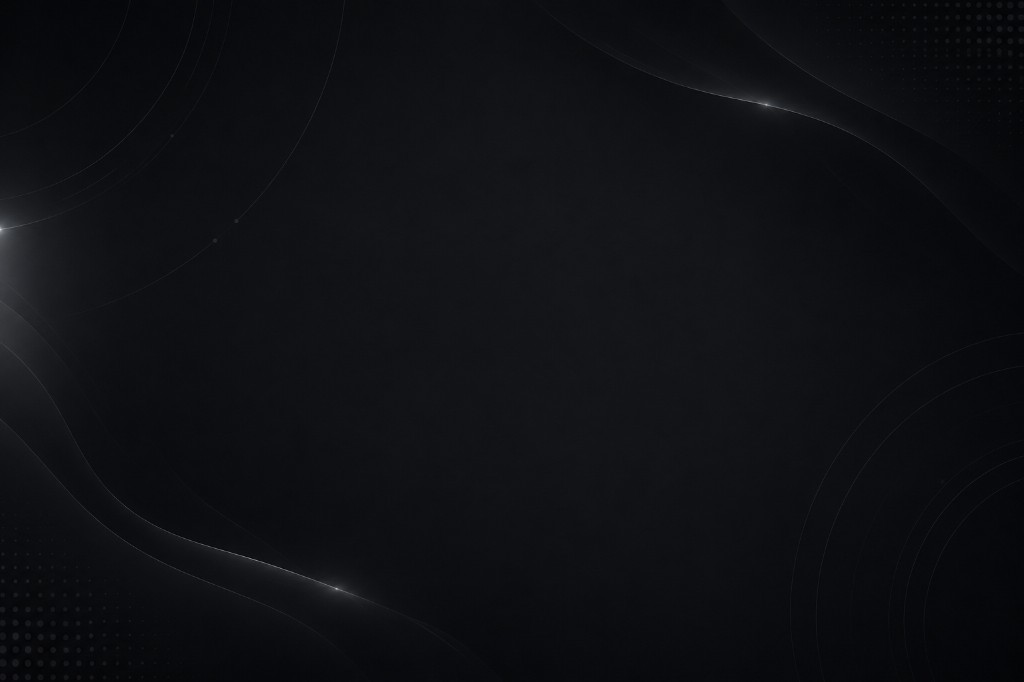
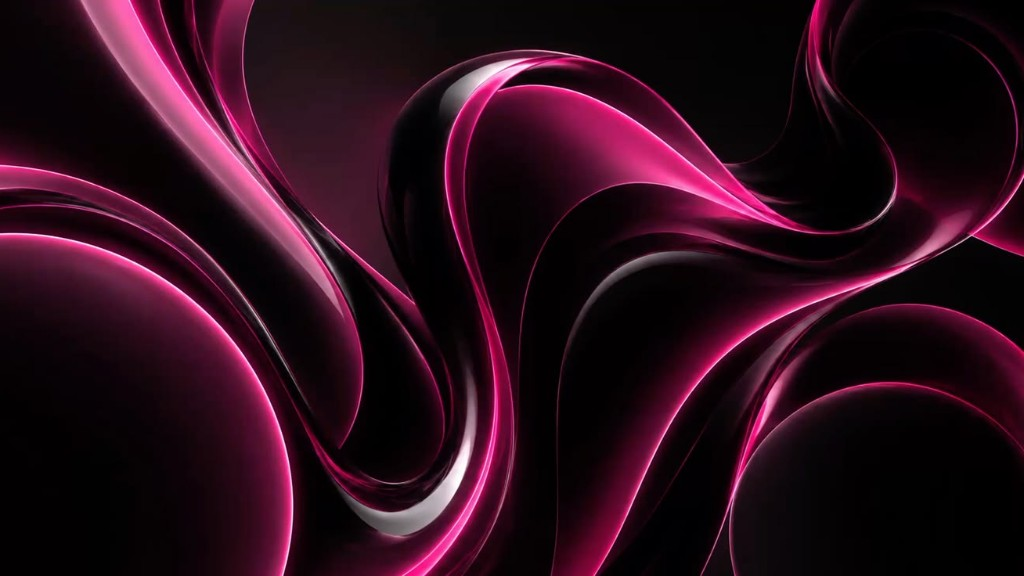
Refresh global app background and tighten interview room layout.
Replace the project background art, clear covering page fills, and place question/recorder panels in a 5:2 row without footer replay controls.

diff --git a/src/features/practice/components/B2cInterviewControls.tsx b/src/features/practice/components/B2cInterviewControls.tsx
@@ -1,4 +1,4 @@
-import { Mic, MicOff, RotateCcw, Video, VideoOff } from 'lucide-react';
+import { Mic, MicOff, Video, VideoOff } from 'lucide-react';
 import { useLanguage } from '@/shared/languages';
 import { cn } from '@/lib/utils';
 
@@ -7,11 +7,6 @@ interface B2cInterviewControlsProps {
   cameraEnabled: boolean;
   onToggleMic: () => void;
   onToggleCamera: () => void;
-  onOpenRecorder: () => void;
-  openRecorderDisabled?: boolean;
-  onReplay: () => void;
-  replayDisabled: boolean;
-  replaying: boolean;
   onFinish: () => void;
   finishLabel: string;
   finishPrimary?: boolean;
@@ -23,11 +18,6 @@ export function B2cInterviewControls({
   cameraEnabled,
   onToggleMic,
   onToggleCamera,
-  onOpenRecorder,
-  openRecorderDisabled,
-  onReplay,
-  replayDisabled,
-  replaying,
   onFinish,
   finishLabel,
   finishPrimary,
@@ -37,7 +27,7 @@ export function B2cInterviewControls({
 
   return (
     <div className="fixed inset-x-0 bottom-0 z-50 border-t border-satin bg-surface-raised/95 backdrop-blur-md">
-      <div className="mx-auto grid w-full max-w-[1400px] grid-cols-1 gap-3 px-4 py-3 sm:grid-cols-[auto_1fr_auto] sm:items-center sm:px-6">
+      <div className="mx-auto flex w-full max-w-[1400px] items-center justify-between gap-3 px-4 py-3 sm:px-6">
         <div className="flex items-center gap-3">
           <button
             type="button"
@@ -61,40 +51,17 @@ export function B2cInterviewControls({
           </button>
         </div>
 
-        <div className="flex flex-wrap items-center justify-center gap-2">
-          <button
-            type="button"
-            className="btn-secondary inline-flex items-center gap-2 rounded-full px-4 py-2.5 text-sm"
-            disabled={replayDisabled || disabled}
-            onClick={onReplay}
-          >
-            <RotateCcw className="size-4" aria-hidden />
-            {replaying ? t('practice.speech.replaying') : t('practice.speech.replay')}
-          </button>
-          <button
-            type="button"
-            className="btn-primary inline-flex items-center gap-2 rounded-full px-4 py-2.5 text-sm"
-            disabled={openRecorderDisabled || disabled}
-            onClick={onOpenRecorder}
-          >
-            <Mic className="size-4" aria-hidden />
-            {t('practice.audioRecorder.open')}
-          </button>
-        </div>
-
-        <div className="flex flex-wrap items-center justify-end gap-2">
-          <button
-            type="button"
-            className={cn(
-              'inline-flex items-center gap-2 rounded-full border border-red-500/40 px-4 py-2.5 text-sm font-medium text-red-300 hover:bg-red-500/10',
-              finishPrimary && 'btn-primary border-transparent text-black',
-            )}
-            disabled={disabled}
-            onClick={onFinish}
-          >
-            {finishLabel}
-          </button>
-        </div>
+        <button
+          type="button"
+          className={cn(
+            'inline-flex items-center gap-2 rounded-full border border-red-500/40 px-4 py-2.5 text-sm font-medium text-red-300 hover:bg-red-500/10',
+            finishPrimary && 'btn-primary border-transparent text-black',
+          )}
+          disabled={disabled}
+          onClick={onFinish}
+        >
+          {finishLabel}
+        </button>
       </div>
     </div>
   );

diff --git a/src/features/practice/components/audio-recorder/AnswerRecorderCard.tsx b/src/features/practice/components/audio-recorder/AnswerRecorderCard.tsx
@@ -36,44 +36,42 @@ export function AnswerRecorderCard({
   const alreadySubmitted = status === 'submitted';
 
   return (
-    <section className="frame-satin rounded-2xl border border-satin bg-surface-raised p-5 sm:p-6">
-      <div className="flex flex-col gap-4 sm:flex-row sm:items-center sm:justify-between">
-        <div className="flex min-w-0 items-start gap-4">
-          <div className="frame-satin-soft flex size-12 shrink-0 items-center justify-center rounded-xl bg-surface-overlay text-foreground">
-            <Mic className="size-5" aria-hidden />
-          </div>
-          <div className="min-w-0 space-y-2">
-            <div className="flex flex-wrap items-center gap-2">
-              <h3 className="text-base font-semibold text-foreground">
-                {t('practice.audioRecorder.cardTitle')}
-              </h3>
-              <span
-                className={cn(
-                  'inline-flex rounded-full border px-2.5 py-0.5 text-xs font-medium',
-                  statusClass[status],
-                )}
-              >
-                {t(statusKey[status])}
-              </span>
-            </div>
-            <p className="text-sm text-muted-foreground">
-              {alreadySubmitted
-                ? t('practice.audioRecorder.cardSubmittedHint')
-                : t('practice.audioRecorder.cardDescription')}
-            </p>
-          </div>
+    <section className="frame-satin flex h-full min-h-[12rem] flex-col justify-between gap-5 rounded-2xl border border-satin bg-surface-raised p-5 sm:p-6">
+      <div className="flex min-w-0 flex-col gap-4">
+        <div className="frame-satin-soft flex size-12 shrink-0 items-center justify-center rounded-xl bg-surface-overlay text-foreground">
+          <Mic className="size-5" aria-hidden />
         </div>
-        <button
-          type="button"
-          className="btn-primary shrink-0 self-start sm:self-center"
-          disabled={disabled || status === 'submitting'}
-          onClick={onOpenRecorder}
-        >
-          {alreadySubmitted
-            ? t('practice.audioRecorder.openAgain')
-            : t('practice.audioRecorder.open')}
-        </button>
+        <div className="min-w-0 space-y-2">
+          <div className="flex flex-wrap items-center gap-2">
+            <h3 className="text-base font-semibold text-foreground">
+              {t('practice.audioRecorder.cardTitle')}
+            </h3>
+            <span
+              className={cn(
+                'inline-flex rounded-full border px-2.5 py-0.5 text-xs font-medium',
+                statusClass[status],
+              )}
+            >
+              {t(statusKey[status])}
+            </span>
+          </div>
+          <p className="text-sm text-muted-foreground">
+            {alreadySubmitted
+              ? t('practice.audioRecorder.cardSubmittedHint')
+              : t('practice.audioRecorder.cardDescription')}
+          </p>
+        </div>
       </div>
+      <button
+        type="button"
+        className="btn-primary w-full shrink-0"
+        disabled={disabled || status === 'submitting'}
+        onClick={onOpenRecorder}
+      >
+        {alreadySubmitted
+          ? t('practice.audioRecorder.openAgain')
+          : t('practice.audioRecorder.open')}
+      </button>
     </section>
   );
 }

diff --git a/src/features/practice/components/B2cPracticeInterviewRoom.tsx b/src/features/practice/components/B2cPracticeInterviewRoom.tsx
@@ -125,29 +125,34 @@ export function B2cPracticeInterviewRoom({ sessionId, completePath }: B2cPractic
           </div>
         </div>
 
-        <InterviewQuestionPanel
-          currentIndex={room.currentIndex}
-          totalQuestions={room.questions.length}
-          remainingSeconds={room.remainingSeconds}
-          question={room.currentQuestion}
-          questions={room.questions}
-          questionStates={room.questionStates}
-          showWarning={room.showTimerWarning}
-          nextActionLabel={nextActionLabel}
-          speechStatus={speechStatus}
-          isTimingOut={room.isTimingOut}
-          hasNextQuestion={
-            room.currentQuestion
-              ? room.currentIndex < room.questions.length - 1
-              : false
-          }
-        />
-
-        <AnswerRecorderCard
-          status={cardStatus}
-          disabled={room.isSubmittingSession || room.isTimingOut || room.remainingSeconds <= 0}
-          onOpenRecorder={openRecorder}
-        />
+        <div className="grid grid-cols-1 items-stretch gap-4 lg:grid-cols-7 lg:gap-5">
+          <div className="min-w-0 lg:col-span-5">
+            <InterviewQuestionPanel
+              currentIndex={room.currentIndex}
+              totalQuestions={room.questions.length}
+              remainingSeconds={room.remainingSeconds}
+              question={room.currentQuestion}
+              questions={room.questions}
+              questionStates={room.questionStates}
+              showWarning={room.showTimerWarning}
+              nextActionLabel={nextActionLabel}
+              speechStatus={speechStatus}
+              isTimingOut={room.isTimingOut}
+              hasNextQuestion={
+                room.currentQuestion
+                  ? room.currentIndex < room.questions.length - 1
+                  : false
+              }
+            />
+          </div>
+          <div className="min-w-0 lg:col-span-2">
+            <AnswerRecorderCard
+              status={cardStatus}
+              disabled={room.isSubmittingSession || room.isTimingOut || room.remainingSeconds <= 0}
+              onOpenRecorder={openRecorder}
+            />
+          </div>
+        </div>
 
         {answer ? (
           <div className="rounded-xl border border-satin bg-surface-raised p-4 text-sm">
@@ -184,11 +189,6 @@ export function B2cPracticeInterviewRoom({ sessionId, completePath }: B2cPractic
             track.enabled = next;
           });
         }}
-        onOpenRecorder={openRecorder}
-        openRecorderDisabled={room.isSubmittingAnswer || room.isTimingOut || room.remainingSeconds <= 0}
-        onReplay={() => void room.speech.replay()}
-        replayDisabled={!room.canReplay || room.isSubmittingAnswer}
-        replaying={room.speech.isPlaying}
         onFinish={() => room.setFinishOpen(true)}
         finishLabel={finishLabel}
         finishPrimary={room.interviewComplete}

diff --git a/src/features/auth/components/AuthModal/AuthOverlay.tsx b/src/features/auth/components/AuthModal/AuthOverlay.tsx
@@ -21,13 +21,11 @@ export const AuthOverlay: React.FC<AuthOverlayProps> = ({
   return (
     <motion.div
       className={`absolute top-0 left-1/2 z-20 h-full w-1/2 overflow-hidden ${
-        isSignUp ? 'bg-surface-raised text-white' : 'bg-surface-overlay text-foreground'
+        isSignUp ? 'bg-surface-raised/95 text-white backdrop-blur-md' : 'bg-surface-overlay/95 text-foreground backdrop-blur-md'
       }`}
       animate={{ x: isSignUp ? '-100%' : '0%' }}
       transition={panelTransition(reducedMotion)}
     >
-      <div className="absolute inset-0 bg-[url('https://www.transparenttextures.com/patterns/cubes.png')] opacity-10 mix-blend-overlay" />
-
       <div className="relative h-full w-full">
         <AnimatePresence mode="wait" initial={false}>
           {!isSignUp ? (

diff --git a/src/features/practice/components/history/InterviewHistoryHeader.tsx b/src/features/practice/components/history/InterviewHistoryHeader.tsx
@@ -5,7 +5,7 @@ export const InterviewHistoryHeader: React.FC = () => {
   const { t } = useLanguage();
 
   return (
-    <div className="flex-shrink-0 relative h-28 md:h-32 bg-gradient-to-r from-surface-raised to-surface-overlay overflow-hidden border-b border-subtle">
+    <div className="flex-shrink-0 relative h-28 md:h-32 overflow-hidden border-b border-subtle bg-surface-raised/40 backdrop-blur-md">
       <div className="absolute inset-0 px-8 flex flex-col justify-center z-10 max-w-[1400px] mx-auto w-full">
         <h1 className="text-2xl md:text-3xl font-bold text-foreground mb-1">
           {t('practice.history.title')}

diff --git a/src/features/home/components/HeroSection.tsx b/src/features/home/components/HeroSection.tsx
@@ -10,7 +10,7 @@ export const HeroSection: React.FC = () => {
   const { openAuthModal } = useMarketingAuthModal();
 
   return (
-    <section className="bg-gradient-to-b from-surface-raised to-surface-base pt-16 pb-24 overflow-hidden">
+    <section className="bg-transparent pt-16 pb-24 overflow-hidden">
       <div className="w-full px-6 lg:px-20 xl:px-32">
         <div className="grid grid-cols-1 xl:grid-cols-2 gap-16 xl:gap-24 items-center">
           {/* Text Content */}

diff --git a/src/features/practice/components/InterviewQuestionPanel.tsx b/src/features/practice/components/InterviewQuestionPanel.tsx
@@ -39,7 +39,7 @@ export function InterviewQuestionPanel({
 
   return (
     <section
-      className="frame-satin flex flex-col gap-5 rounded-2xl bg-surface-raised p-5 shadow-[var(--satin-inset)] sm:p-6"
+      className="frame-satin flex h-full flex-col gap-5 rounded-2xl bg-surface-raised p-5 shadow-[var(--satin-inset)] sm:p-6"
       aria-label={t('practice.room.progressLabel')}
     >
       <div className="flex flex-col gap-4 sm:flex-row sm:items-start sm:justify-between">

diff --git a/src/styles/colors.css b/src/styles/colors.css
@@ -36,7 +36,7 @@
 
   /* === GLOBAL APP BACKGROUND === */
   --app-background-image: url('/backgrounds/global-background.png');
-  --app-background-scrim: color-mix(in srgb, var(--surface-base) 58%, transparent);
+  --app-background-scrim: color-mix(in srgb, var(--surface-base) 42%, transparent);
 
   /* Glass overlays — soft translucent charcoal (screenshot glass cards) */
   --glass-bg: rgb(36 36 40 / 0.55);

diff --git a/src/layouts/components/MarketingMobileNav.tsx b/src/layouts/components/MarketingMobileNav.tsx
@@ -31,7 +31,7 @@ export const MarketingMobileNav: React.FC<MarketingMobileNavProps> = ({
   return (
     <nav
       id="mobile-marketing-nav"
-      className="border-t border-subtle bg-surface-base md:hidden"
+      className="border-t border-subtle bg-surface-base/80 backdrop-blur-md md:hidden"
       aria-label={t('nav.mobileMenu')}
     >
       <ul className="page-container flex flex-col gap-1 py-4">

diff --git a/src/index.css b/src/index.css
@@ -74,7 +74,7 @@
 
 html {
   color-scheme: dark;
-  background-color: var(--surface-base);
+  background-color: #000000;
   background-image: var(--app-background-image);
   background-size: cover;
   background-position: center;
